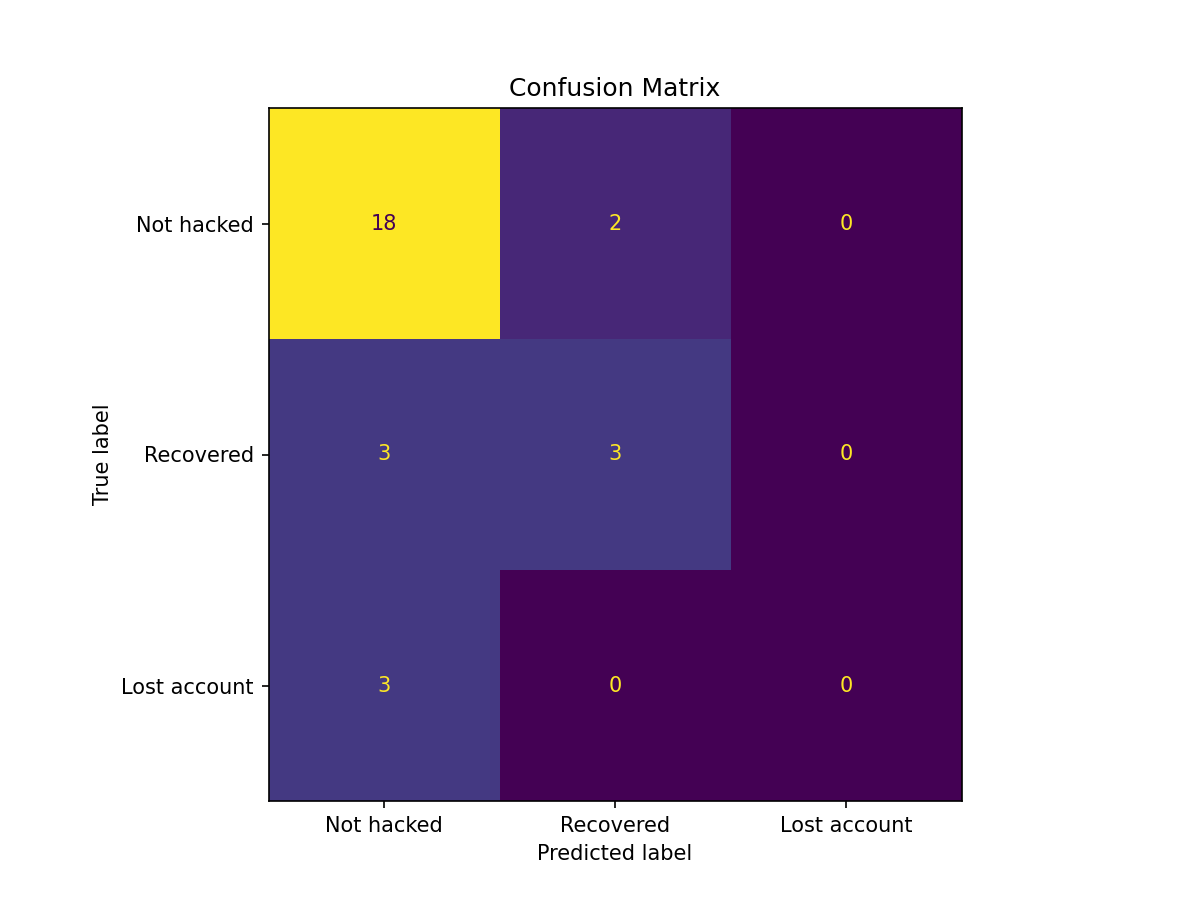
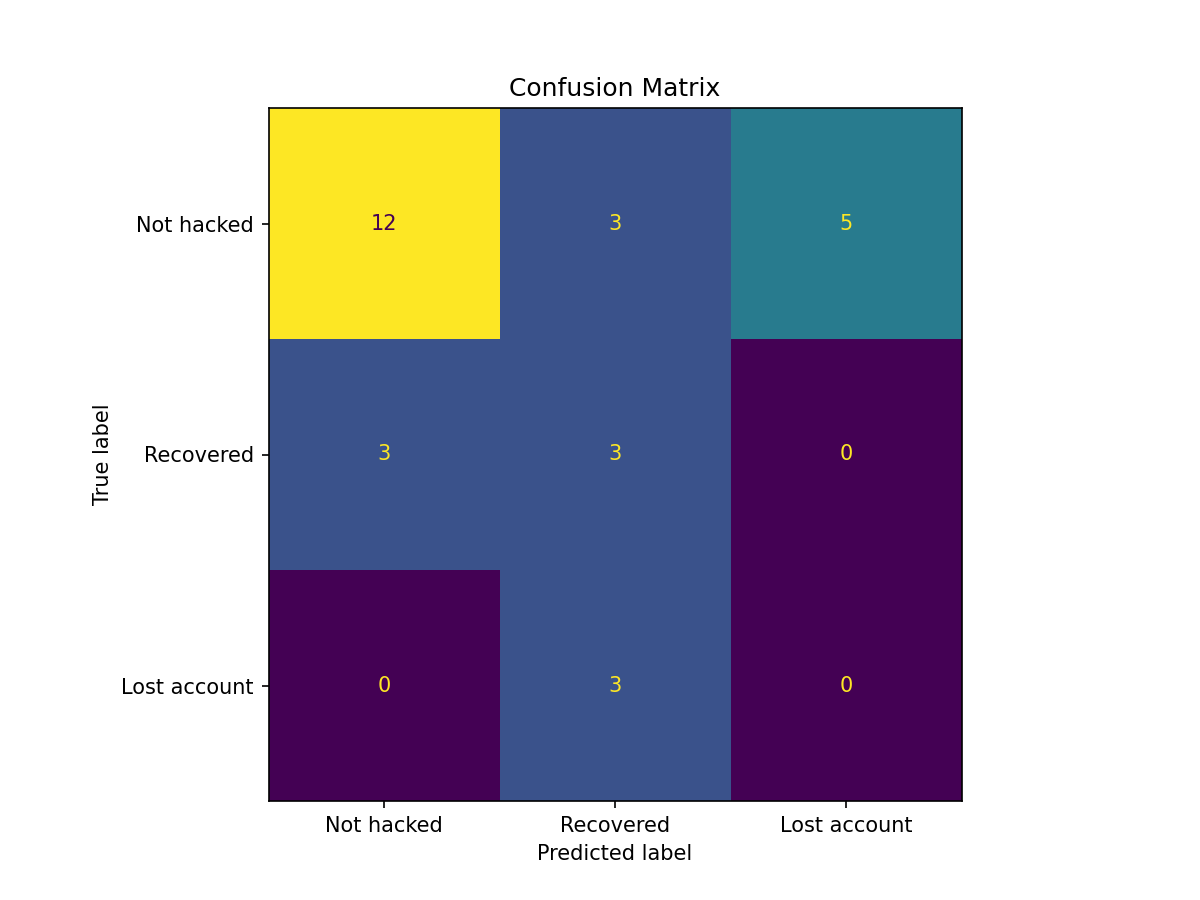
git commit -m

Changed region(s): [[0.2158, 0.0933, 0.8017, 0.9022]]

diff --git a/roc_program.py b/roc_program.py
@@ -28,8 +28,6 @@ columns_to_drop = [
 df = df.drop(columns=columns_to_drop)
 
 # ── 3. TARGET  (3-class: No / recovered / lost) ────────────────────────────────
-# FIX: the original code collapsed "lost account" and "recovered" into one class.
-# Keeping all three gives the model more signal.
 target_col = "Did you ever get hacked?"
 target_map = {
     "No":                              0,
@@ -67,7 +65,7 @@ X = df.drop(columns=["target"])
 y = df["target"]
 
 X_train, X_test, y_train, y_test = train_test_split(
-    X, y, test_size=0.2, random_state=42, stratify=y   # FIX: stratify preserves class balance
+    X, y, test_size=0.2, random_state=4, stratify=y   # FIX: stratify preserves class balance
 )
 
 # ── 6. CLASS WEIGHTS (handles the 68 / 28 / 18 imbalance) ───────────────────
@@ -79,24 +77,24 @@ class_weight_dict = dict(zip(classes, weights))
 models = {
     "Random Forest": RandomForestClassifier(
         n_estimators=500,
-        max_depth=10,           # FIX: cap depth to reduce overfitting on 145 rows
-        min_samples_leaf=3,    # FIX: require at least 3 samples per leaf
+        max_depth=10,           
+        min_samples_leaf=3,
         class_weight=class_weight_dict,
-        random_state=42,
+        random_state=4,
         n_jobs=-1,
     ),
     "Gradient Boosting": GradientBoostingClassifier(
         n_estimators=500,
         max_depth=10,
         learning_rate=0.05,
-        random_state=42,
+        random_state=4,
     ),
 }
 
 # ── 8. CROSS-VALIDATED EVALUATION ─────────────────────────────────────────────
 # FIX: with only ~116 training rows a single 80/20 split is unreliable.
 # StratifiedKFold gives a much more honest estimate of generalisation.
-cv = StratifiedKFold(n_splits=5, shuffle=True, random_state=42)
+cv = StratifiedKFold(n_splits=5, shuffle=True, random_state=4)
 
 print("=" * 55)
 print("  5-Fold Cross-Validated ROC-AUC (OvR, macro)")
